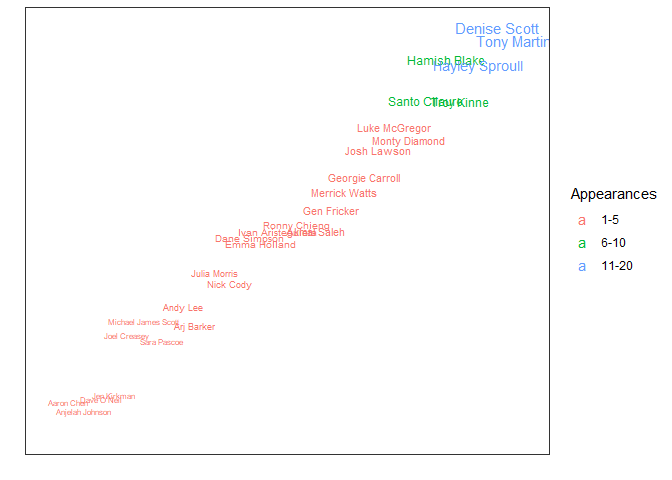
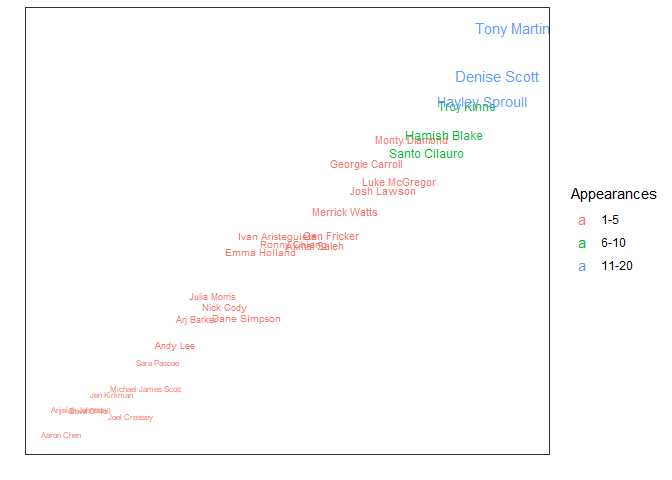
finalise Elo update

Changed region(s): [[0.3125, 0.0312, 0.8125, 0.5312], [0.0625, 0.5625, 0.4062, 0.875], [0.0625, 0.9062, 0.0938, 0.9375]]

diff --git a/Title.md b/Title.md
@@ -1,7 +1,7 @@
 HYBPA? Analysis
 ================
 Lachlan Webb
-03/05/2022
+24/05/2022
 
 ## HYBPA
 
@@ -125,17 +125,6 @@ has only been a panelist once. Without playing multiple times, we don’t
 know if he will be a consistently high scorer. Amanda Keller is a high
 ranker after 15 appearances.
 
-# A Finer Detail
-
-Of course, a more effective comparison might be achieved if we looked at
-the score the panelists achieve each episode. However, I couldn’t find
-an easy way to get that information. In fact, what would be a great
-resource is the individual score of each panelist per episode, broken
-down general round questions, guest quizmaster questions, and mini
-games. It be fun to see who is the best at “Going, Going, Gone”, “Trash
-or Treasure”, and “Identify These International Versions of Well Known
-Reality TV Formats”
-
 # Those Who Never Win
 
 We shouldn’t forget to mention all the panelists who have never won a
@@ -146,6 +135,59 @@ show.
 So Tony Martin, Denise Scott, and Hayley Sproull each have a number of
 appearances but no wins as of yet. Hopefully in the future the pay a bit
 more attention to the happenings of the week.
+
+# Multiplayer Elo Rating
+
+Perhaps we need a different approach entirely, that way we can give a
+ranking to panelists who don’t win. Why would we want to give a
+score/rank to someone who has never won? Who is a better performing
+panelist between Sarah Pascoe, who has been on the show once and lost,
+and Tim Mcdonald, who has been on the show 12 times but only won once?
+It isn’t a straightforward comparison, but we could argue that Sarah
+shouldn’t be ranked lower than Tim, a he’s had 11 losses to Sarah’s one.
+
+Using the methodology outlined in
+<https://towardsdatascience.com/developing-a-generalized-elo-rating-system-for-multiplayer-games-b9b495e87802>
+, we can calculate multiplayer Elo ratings . Elo ratings have
+traditionally been used in 1 vs 1 games like chess and team vs team
+games like football leagues. But we can extend it to multiplayer games.
+This is useful as it means we can also rank players who never win. For
+our calculations, every player starts with a rating of 1000, which
+changes each time they appear (increase for win and decrease for loss).
+
+![](Title_files/figure-gfm/Elo%20rating-1.png)<!-- -->![](Title_files/figure-gfm/Elo%20rating-2.png)<!-- -->![](Title_files/figure-gfm/Elo%20rating-3.png)<!-- -->![](Title_files/figure-gfm/Elo%20rating-4.png)<!-- -->![](Title_files/figure-gfm/Elo%20rating-5.png)<!-- -->
+
+And how do the different ranking methods at the end of 2021 season
+compare?
+
+![](Title_files/figure-gfm/unnamed-chunk-8-1.png)<!-- -->
+
+Our ‘cost’ function for the Elo rating system was 1 for a win, and 0 for
+a loss, regardless of place. If we had the individual scores, we could
+perhaps provide a fairer cost function to those who narrowly lose as
+opposed to those who lose by a lot.
+
+We can see from the different ranking methods, that panelists who appear
+a lot but don’t win a lot (i.e. Sam Pang, Kitty Flanagan) have a lower
+Elo rating than panelists who have never won but who have only appeared
+a few times (i.e. Joel Creasey and Sarah Pascoe).
+
+Amanda Keller has the top ranking with Elo ratings, with Harry Shear
+dropping down the ranks.
+
+# A Finer Detail
+
+Of course, a more effective comparison might be achieved if we looked at
+the score the panelists achieve each episode. However, I couldn’t find
+an easy way to get that information. In fact, what would be a great
+resource is the individual score of each panelist per episode, broken
+down general round questions, guest quizmaster questions, and mini
+games. It be fun to see who is the best at “Going, Going, Gone”, “Trash
+or Treasure”, and “Identify These International Versions of Well Known
+Reality TV Formats”. Plus, seeing if there are benefits to going first
+or last in a minigame (when panelists make their decision more on how
+many Trash or Treasures have already been then deciding based on the
+footage) would be fascinating.
 
 # A Conclusion
 
